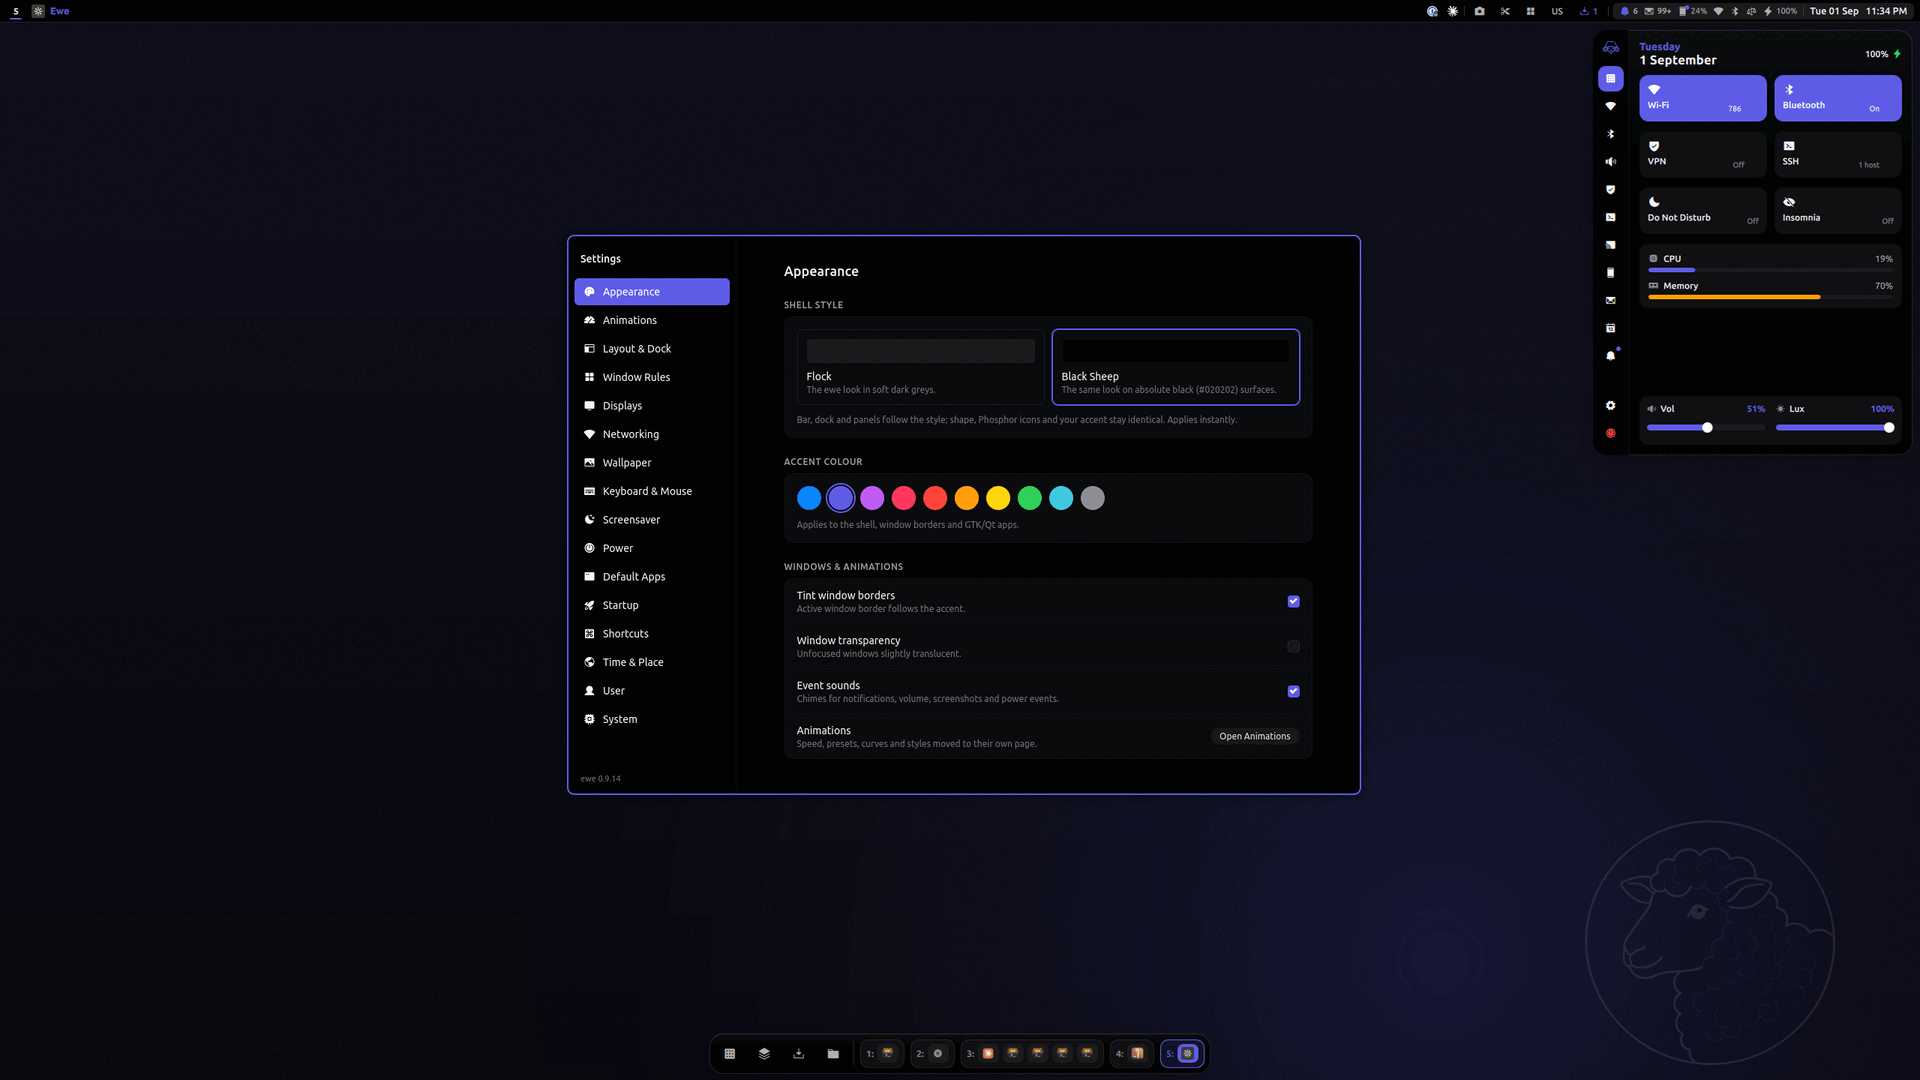
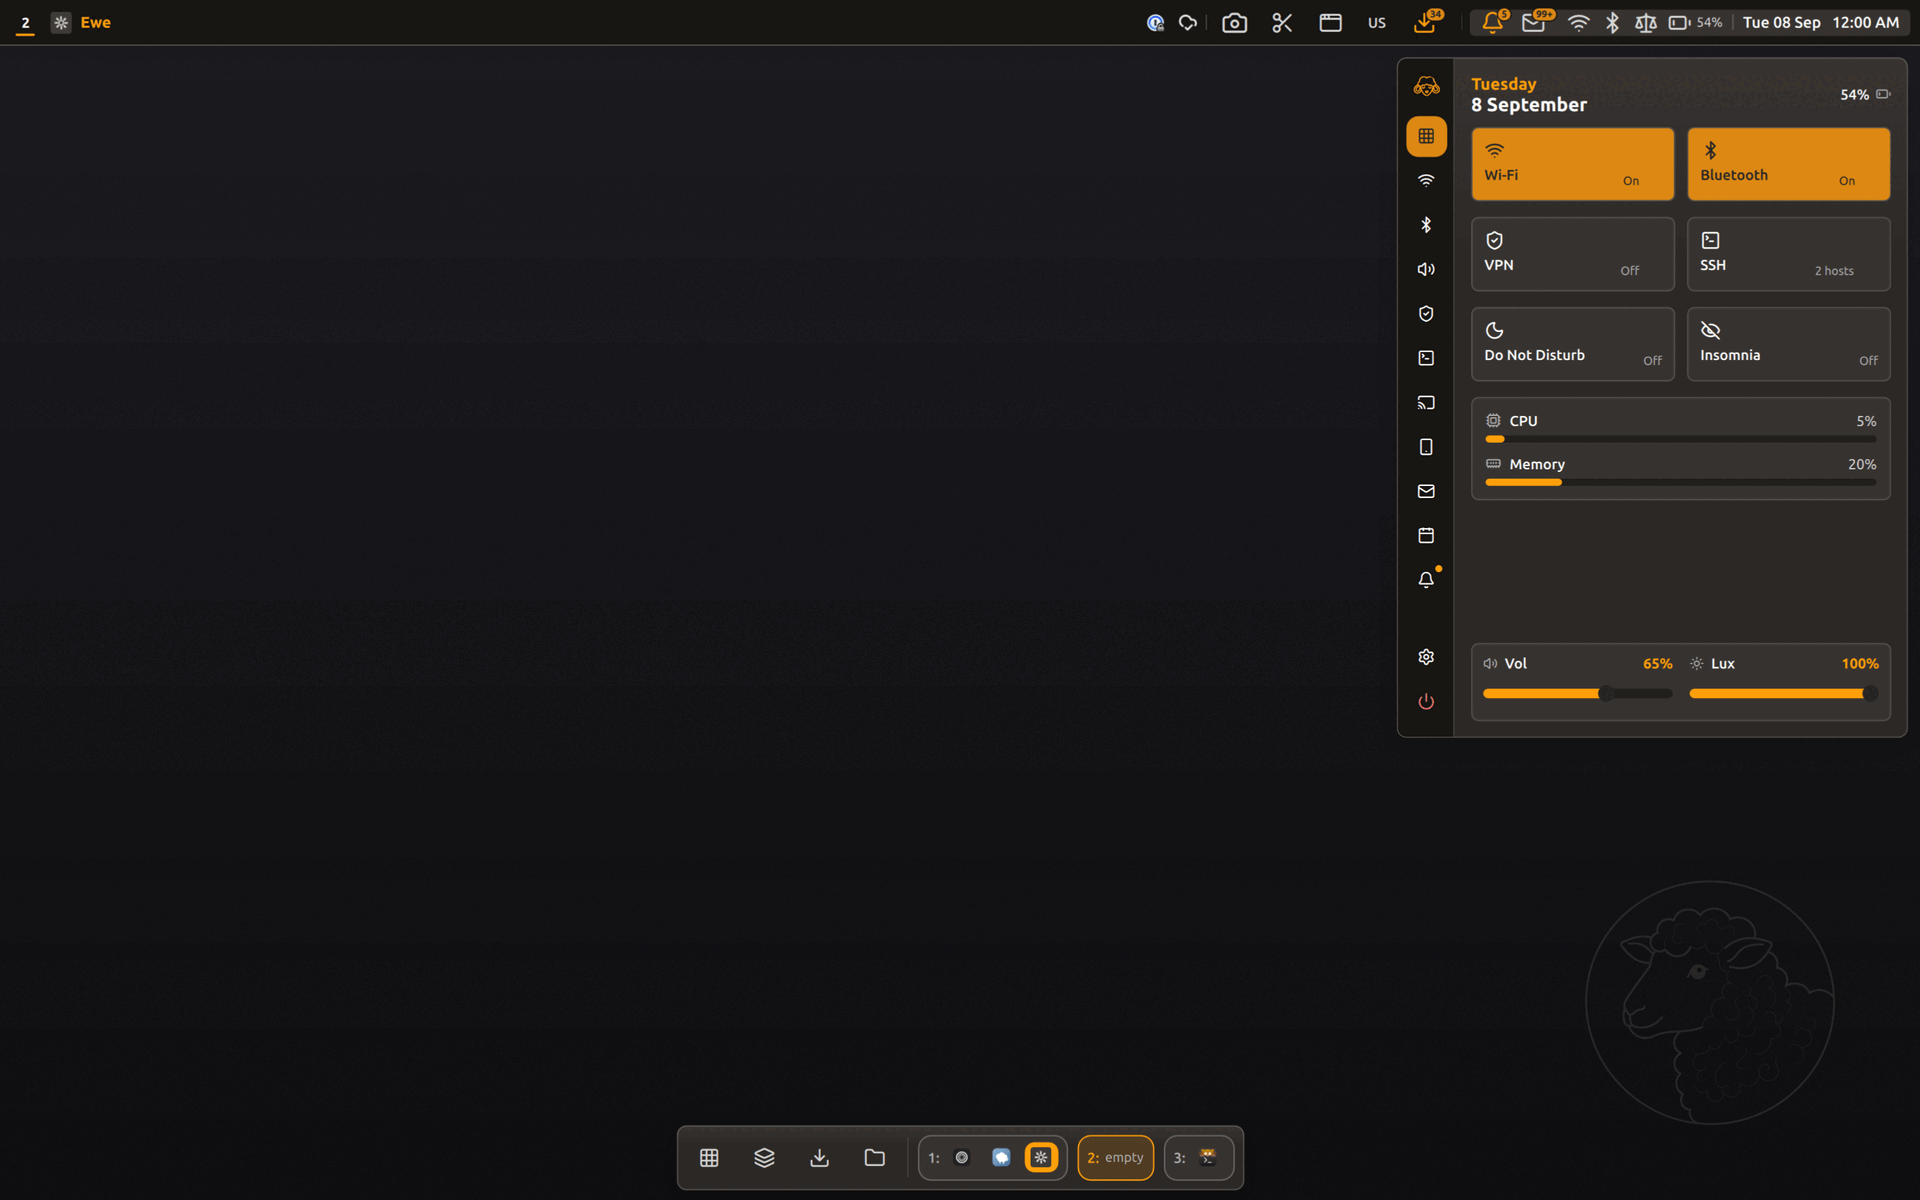
A hero shot of the actual desktop
The old one predated Fluent 2 and Lucide, and its caption named "Flock and
Black Sheep" — two looks that no longer exist. This is a real session on the
current shell: orange accent, the control centre open, badges on the bar.

Shot.svelte's intrinsic size was hard-coded 1920x1080 while the shot is 16:10,
so the browser reserved the wrong box and the page jumped as the image landed.
It is a prop now. The PNG fallback is quantised to 256 colours — the UI is
flat, so it is visually identical at a third of the size — and the WebP the
browser actually takes is 42 kB.

Claude-Session: https://claude.ai/code/session_01S1BMxw2vR57Ff8QzaALPhv

diff --git a/src/routes/+page.svelte b/src/routes/+page.svelte
@@ -38,8 +38,8 @@
 <div class="wrap wide figure">
 	<Shot
 		priority
-		alt="The ewe desktop: the Settings app open on Appearance with a row of accent colours, the control centre open at the right with Wi-Fi, Bluetooth, VPN, SSH, Do Not Disturb and Insomnia tiles above CPU and memory meters, and the dock along the bottom."
-		caption="A running ewe session. The accent was switched a moment earlier — which is why the control-centre tiles and the window border moved with it. One setting, applied everywhere, live."
+		alt="The ewe desktop: the bar across the top with workspace, tray, notification and update badges; the control centre open at the right with Wi-Fi, Bluetooth, VPN, SSH, Do Not Disturb and Insomnia tiles above CPU and memory meters and volume and brightness sliders; the dock along the bottom."
+		caption="A running ewe session with the control centre open. One accent decides the tiles, the badges, the sliders and the active dock item — and the ink on top of it is measured against the fill, not assumed white."
 	/>
 </div>
 

diff --git a/src/lib/Shot.svelte b/src/lib/Shot.svelte
@@ -1,10 +1,15 @@
 <script>
 	// A real screenshot of a running ewe session.
+	// The intrinsic size is a PROP, not a literal. It was hard-coded 1920x1080
+	// while the shot itself is 16:10, so the browser reserved the wrong box and
+	// the page jumped as the image landed.
 	let {
 		src = '/img/desktop',
 		alt,
 		caption = '',
-		priority = false
+		priority = false,
+		w = 2560,
+		h = 1600
 	} = $props();
 </script>
 
@@ -14,8 +19,8 @@
 		<img
 			src="{src}.png"
 			{alt}
-			width="1920"
-			height="1080"
+			width={w}
+			height={h}
 			loading={priority ? 'eager' : 'lazy'}
 			fetchpriority={priority ? 'high' : 'auto'}
 			decoding="async"
